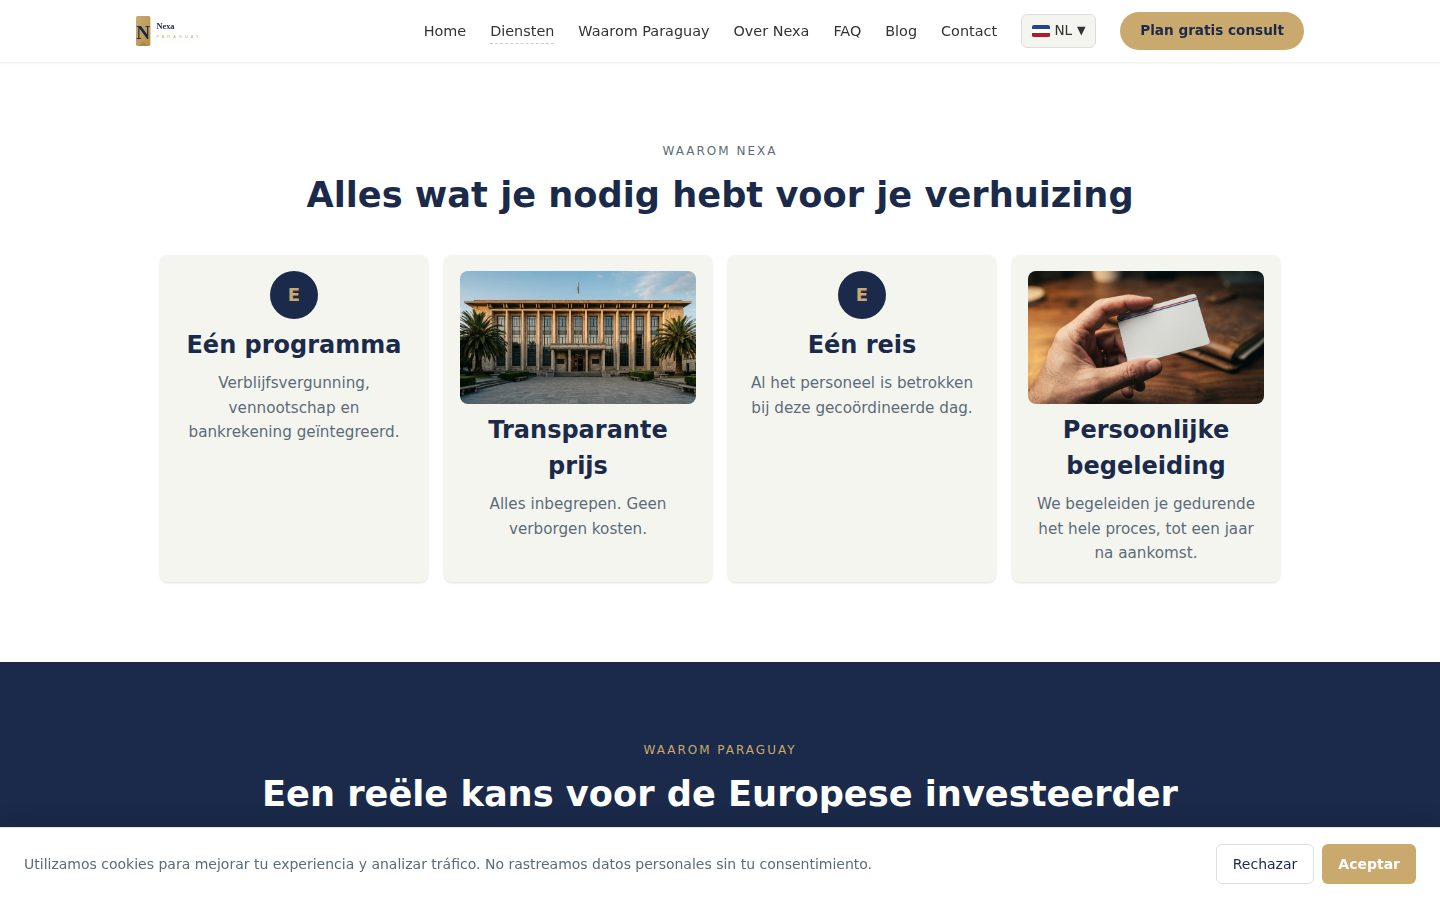
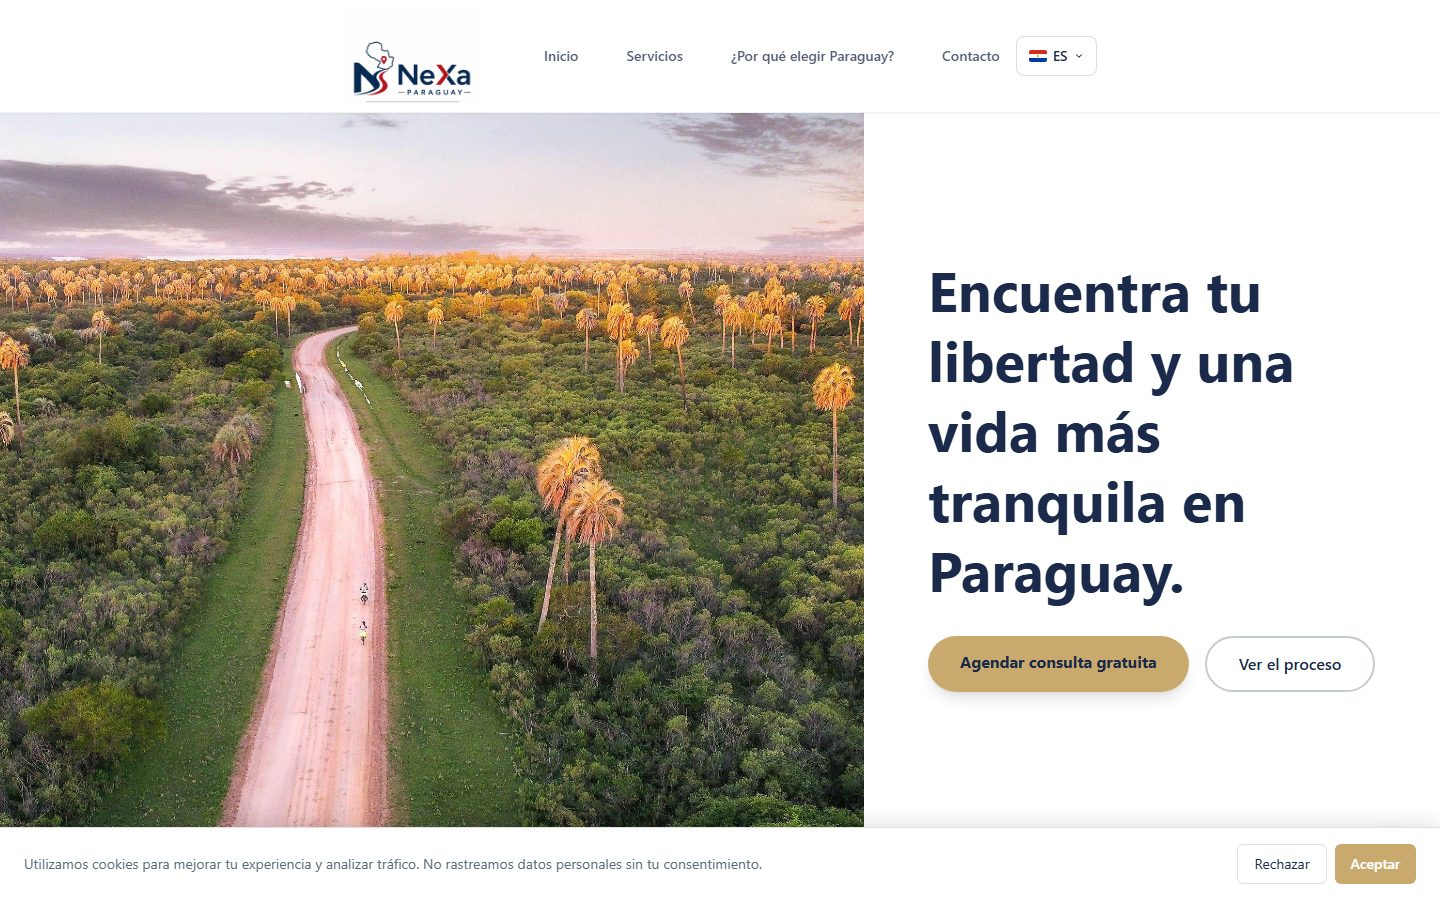
feat(home): reskin with Sora typography, 2-image cascade, teal band
- Light editorial hero with Sora display font and teal underline on 'sitio web'
- Browser-framed screenshot cascade (Nudo back, Magnolia front)
- Featured strip on solid teal-700 band (no gradient, per brand rule)
- CTA buttons recolored to brand teal
- Updated Nexa screenshot from live site
- Added Sora + Inter fonts to layout and tailwind config

diff --git a/app/page.tsx b/app/page.tsx
@@ -1,4 +1,6 @@
 import type { Metadata } from 'next'
+import Image from 'next/image'
+import Link from 'next/link'
 import { Nav } from '@/components/nav'
 import { Footer } from '@/components/footer'
 import { ClientCard, type ClientCardData } from '@/components/ClientCard'
@@ -37,52 +39,93 @@ export default function HomePage() {
     <>
       <Nav />
       <main className="pt-28 pb-24">
-        {/* Hero */}
+        {/* Hero - Light editorial with Sora type + image cascade */}
         <section className="mx-auto mb-10 max-w-6xl px-5 md:mb-14">
-          <div className="rounded-3xl bg-gray-950 px-6 py-12 text-white md:px-12 md:py-16">
-            <span className="inline-flex items-center gap-1.5 rounded-full bg-white/10 px-3 py-1 text-[11px] font-semibold uppercase tracking-[0.18em] text-white/80">
-              Portafolio público
-            </span>
-            <h1 className="mt-5 text-4xl font-extrabold tracking-tight md:text-6xl">
-              Crea tu sitio web para pymes.
-            </h1>
-            <p className="mt-4 max-w-2xl text-base leading-relaxed text-white/75 md:text-lg">
-              Creamos tu sitio web — para tu peluquería, tu gimnasio, tu restaurante,
-              tu pyme. Con dominio propio, SEO y WhatsApp. Hecho en Paraguay, para
-              Paraguay.
-            </p>
-            <div className="mt-7 flex flex-wrap gap-3">
-              <a
-                href={waLink('Hola, vi el portafolio de ParaguAI y quiero una demo para mi negocio.')}
-                className="inline-flex items-center gap-2 rounded-full bg-white px-6 py-3 text-sm font-semibold text-gray-900 transition-transform hover:-translate-y-0.5"
-              >
-                Quiero una demo gratis
-              </a>
-              <a
-                href="#destacados"
-                className="inline-flex items-center gap-2 rounded-full border border-white/20 bg-white/5 px-6 py-3 text-sm font-semibold text-white transition-colors hover:bg-white/10"
-              >
-                Ver destacados
-              </a>
+          <div className="grid gap-12 lg:grid-cols-12 lg:gap-8 lg:items-center">
+            {/* Left: Text */}
+            <div className="lg:col-span-6">
+              <span className="inline-flex items-center gap-2.5 rounded-full bg-brand-50 px-3 py-1.5 text-[11px] font-bold uppercase tracking-[0.18em] text-brand-700">
+                <span className="h-0.5 w-6 bg-brand-500"></span>
+                Portafolio público
+              </span>
+              <h1 className="mt-5 font-sora text-4xl font-extrabold tracking-tight text-slate-900 md:text-6xl lg:text-5xl xl:text-6xl">
+                Crea un <span className="relative whitespace-nowrap">sitio web<span className="absolute bottom-0.5 left-0 right-0 h-0.5 bg-brand-200 -z-10 rounded-sm"></span></span> para tu pyme.
+              </h1>
+              <p className="mt-5 max-w-xl text-lg leading-relaxed text-slate-600">
+                Creamos tu sitio web — para tu peluquería, tu gimnasio, tu restaurante, tu pyme. Con dominio propio, SEO y WhatsApp. Hecho en Paraguay, para Paraguay.
+              </p>
+              <div className="mt-8 flex flex-wrap gap-3">
+                <a
+                  href={waLink('Hola, vi el portafolio de ParaguAI y quiero una demo para mi negocio.')}
+                  className="inline-flex items-center gap-2 rounded-full bg-slate-900 px-7 py-3.5 text-sm font-semibold text-white transition-all hover:-translate-y-0.5 hover:bg-brand-700"
+                >
+                  Quiero una demo gratis
+                </a>
+                <a
+                  href="#destacados"
+                  className="inline-flex items-center gap-2 rounded-full border-2 border-gray-200 bg-white px-7 py-3.5 text-sm font-semibold text-slate-700 transition-all hover:-translate-y-0.5 hover:border-brand-300 hover:bg-brand-50"
+                >
+                  Ver destacados
+                </a>
+              </div>
+            </div>
+
+            {/* Right: Browser-frame cascade */}
+            <div className="relative lg:col-span-6 lg:h-[430px]">
+              {/* Back shot - Nudo */}
+              <div className="absolute right-[6%] top-0 z-10 w-[70%] overflow-hidden rounded-2xl border border-gray-200 bg-white shadow-xl lg:shadow-2xl">
+                <div className="flex items-center gap-1.5 border-b border-gray-100 bg-gray-50 px-3 py-2">
+                  <i className="h-2 w-2 rounded-full bg-red-400"></i>
+                  <i className="h-2 w-2 rounded-full bg-yellow-400"></i>
+                  <i className="h-2 w-2 rounded-full bg-green-400"></i>
+                </div>
+                <div className="relative aspect-[16/9.5]">
+                  <Image
+                    src="/screenshots/nudo.jpg"
+                    alt="Nudo"
+                    fill
+                    className="object-cover object-top"
+                    sizes="(max-width: 1024px) 100vw, 50vw"
+                  />
+                </div>
+              </div>
+              {/* Front shot - Magnolia */}
+              <div className="absolute bottom-0 left-0 z-20 w-[70%] overflow-hidden rounded-2xl border border-gray-200 bg-white shadow-2xl">
+                <div className="flex items-center gap-1.5 border-b border-gray-100 bg-gray-50 px-3 py-2">
+                  <i className="h-2 w-2 rounded-full bg-red-400"></i>
+                  <i className="h-2 w-2 rounded-full bg-yellow-400"></i>
+                  <i className="h-2 w-2 rounded-full bg-green-400"></i>
+                </div>
+                <div className="relative aspect-[16/9.5]">
+                  <Image
+                    src="/screenshots/magnolia-peluqueria.jpg"
+                    alt="Magnolia Peluquería"
+                    fill
+                    className="object-cover object-top"
+                    sizes="(max-width: 1024px) 100vw, 50vw"
+                  />
+                </div>
+              </div>
             </div>
           </div>
         </section>
 
-        {/* Featured strip — directly after hero */}
-        <section id="destacados" className="bg-gray-950 px-5 py-14 md:py-20">
+        {/* Featured strip - Solid teal band */}
+        <section id="destacados" className="bg-brand-700 px-5 py-16 md:py-20">
           <div className="mx-auto max-w-6xl">
-            <span className="inline-flex items-center gap-1.5 rounded-full bg-white/10 px-3 py-1 text-[11px] font-semibold uppercase tracking-[0.18em] text-white/80">
+            <span className="inline-flex items-center gap-2.5 rounded-full bg-white/10 px-3 py-1.5 text-[11px] font-bold uppercase tracking-[0.18em] text-brand-200">
+              <span className="h-0.5 w-6 bg-brand-400"></span>
               Destacados
             </span>
-            <h2 className="mt-3 text-2xl font-extrabold text-white md:text-3xl">
+            <h2 className="mt-3 text-2xl font-extrabold text-white md:text-3xl lg:text-4xl">
               Los que más Leads generan
             </h2>
-            <p className="mt-2 max-w-xl text-sm text-white/60 md:text-base">
+            <p className="mt-2 max-w-xl text-sm text-white/70 md:text-base">
               Una muestra — clic en cada tarjeta abre el sitio real.
             </p>
-            <div className="mt-7 grid gap-5 sm:grid-cols-2 lg:grid-cols-3">
+            <div className="mt-8 grid gap-5 sm:grid-cols-2 lg:grid-cols-3">
               {featured.map((c) => (
-                <div key={c.slug} className="rounded-2xl ring-1 ring-white/10">
+                <div key={c.slug} className="rounded-2xl bg-white transition-all hover:-translate-y-1 hover:shadow-2xl">
                   <ClientCard c={c} />
                 </div>
               ))}
@@ -92,16 +135,16 @@ export default function HomePage() {
 
         {/* Final CTA */}
         <section className="mx-auto mt-16 max-w-3xl px-5 text-center md:mt-20">
-          <h2 className="text-3xl font-extrabold tracking-tight text-gray-900 md:text-4xl">
+          <h2 className="text-3xl font-extrabold tracking-tight text-slate-900 md:text-4xl">
             El próximo sitio puede ser el tuyo.
           </h2>
-          <p className="mx-auto mt-3 max-w-xl text-base text-gray-600">
+          <p className="mx-auto mt-3 max-w-xl text-base text-slate-600">
             Mandanos tu negocio por WhatsApp. En 48h tenés una demo gratis, sin
             compromiso.
           </p>
           <a
             href={waLink('Hola, quiero una demo gratis como los sitios del portafolio.')}
-            className="mt-7 inline-flex items-center gap-2 rounded-full bg-gray-950 px-8 py-4 text-sm font-semibold text-white transition-transform hover:-translate-y-0.5"
+            className="mt-7 inline-flex items-center gap-2 rounded-full bg-brand-600 px-8 py-4 text-sm font-semibold text-white transition-all hover:-translate-y-0.5 hover:bg-brand-700 hover:shadow-lg hover:shadow-brand-600/30"
           >
             Empezar por WhatsApp
           </a>

diff --git a/app/layout.tsx b/app/layout.tsx
@@ -50,11 +50,8 @@ export default function RootLayout({
       <head>
         <link rel="icon" href="/favicon.svg" type="image/svg+xml" />
         <link rel="preconnect" href="https://fonts.googleapis.com" />
-        <link
-          rel="preconnect"
-          href="https://fonts.gstatic.com"
-          crossOrigin="anonymous"
-        />
+        <link rel="preconnect" href="https://fonts.gstatic.com" crossOrigin="anonymous" />
+        <link href="https://fonts.googleapis.com/css2?family=Sora:wght@400;600;700;800&family=Inter:wght@400;500;600;700&display=swap" rel="stylesheet" />
         {/* Google Analytics — replace NEXT_PUBLIC_GA_ID in .env.local */}
         {process.env.NEXT_PUBLIC_GA_ID && (
           <>

diff --git a/tailwind.config.ts b/tailwind.config.ts
@@ -38,7 +38,8 @@ const config: Config = {
         },
       },
       fontFamily: {
-        sans: ['system-ui', '-apple-system', 'sans-serif'],
+        sans: ['Inter', 'system-ui', '-apple-system', 'sans-serif'],
+        sora: ['Sora', 'system-ui', '-apple-system', 'sans-serif'],
       },
     },
   },
